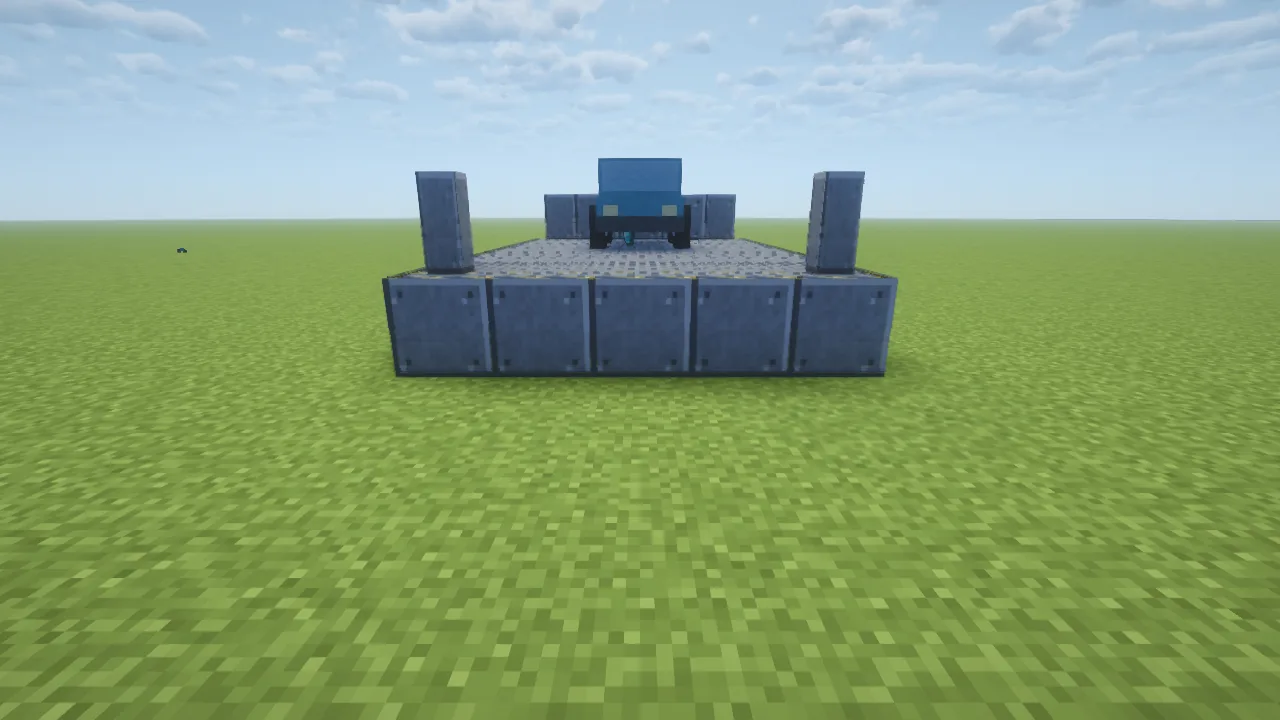
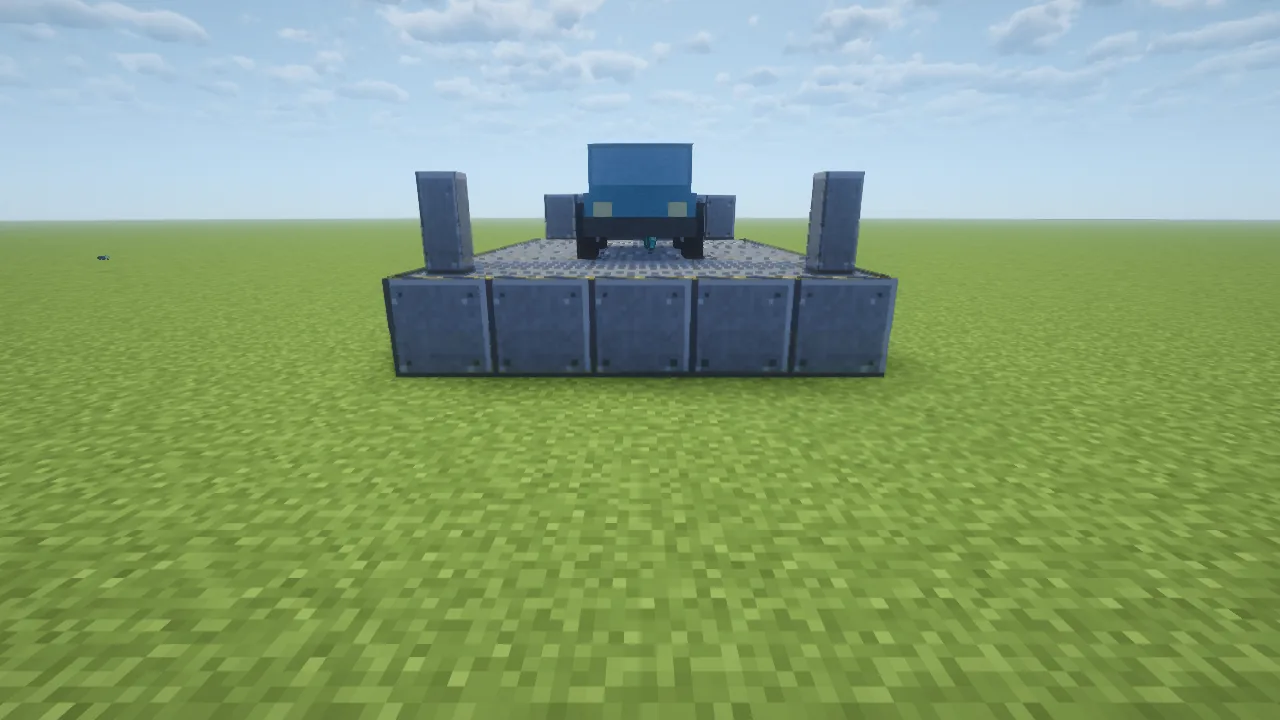
1.18.1: a parked vehicle sits centred between the deck's front edge and the wall, the same margin at both ends (D-0043)
Rusty, on the re-laid garage: "the trailblazer does not center properly based on the new size of
the lift (it is too far back)". 1.18.0 kept D-0040's rule, every vehicle backed up to the wall with
its tail a quarter block off it, which the six-long deck had forced for the Pickup; on the eight-long
deck it left a Trailblazer two blocks behind the middle. Docking.depth is now the middle of the
stretch from the front edge to the wall's face for any body that leaves the gap at both ends
(Docking.centres: the whole fleet on a long lift), else backed up as before; the two rules agree at
the boundary. A vehicle docked under 1.18.0 moves to its centred spot as it loads: snapped within a
block, else let go and taken again through the rams. Network 10 unchanged.

Gate: 194 JUnit (DockingTest: equal margins on each shape, the boundary under both rules), 143
GameTests (the car spun on the east lift ends with the same margin at nose and tail; the towing pair
re-stood across the middle where both spots lie; the short lift's spot a block nearer than the long
one's), the booth's 67 checks; the wiki's two lift photos re-shot from it.

Changed region(s): [[0.3125, 0.1833, 0.6562, 0.3972]]

diff --git a/src/test/java/com/chunkworks/vanillawheels/domain/DockingTest.java b/src/test/java/com/chunkworks/vanillawheels/domain/DockingTest.java
@@ -29,10 +29,12 @@ import org.junit.jupiter.api.Test;
  * hair wider; as long as the longest, a hair longer; the fleet (the
  * Trailblazer, the Pickup, the Trailer, the subs dock on both; the Huey
  * and the Chinook on neither); what the long deck takes that the short
- * one does not. Depth: a body's tail lands GAP off the wall on each shape;
- * the longest body's nose lands OVERHANG past the front; the Pickup's nose
- * is past the short deck's front edge and on the long deck; no length
- * refused. Progress: nowhere
+ * one does not. Depth (D-0043): a body that leaves GAP at both ends sits
+ * centred between the front edge and the wall's face, the same margin each
+ * end, on each shape; one that does not backs up to the wall, its tail GAP
+ * off the face; the two rules agree at the boundary; the longest body's
+ * nose lands OVERHANG past the front; the Pickup centres on the long deck
+ * and backs up on the short, its nose over the edge; no length refused. Progress: nowhere
  * through the rise, rising through the hold and monotone, there through
  * the fall, out of range refused. Turn: none, a quarter each way, a half
  * either way goes positive, more than a turn around, wrapping past 360.
@@ -67,21 +69,33 @@ final class DockingTest {
     }
 
     @Test
-    void aDockedBodyBacksUpToTheWallOnEachDeck() {
-        double length = 4.64;
+    void aDockedBodySitsCentredWithTheSameMarginAtBothEndsOrBacksUpToTheWall() {
         for (Footprint f : java.util.List.of(Footprint.SHORT, Footprint.LONG)) {
-            double depth = Docking.depth(f, length);
-            assertEquals(f.wallFace() - Docking.GAP, depth + length / 2.0, 1e-12, "its tail GAP off the wall's face");
+            double face = f.wallFace();
+            for (double length : new double[] {3.0, 4.64}) {
+                assertTrue(Docking.centres(f, length), length + " centres on " + f.length());
+                double depth = Docking.depth(f, length);
+                double front = depth - length / 2.0, back = face - (depth + length / 2.0);
+                assertEquals(front, back, 1e-12, "the same margin at the nose and the tail");
+                assertTrue(back >= Docking.GAP, "and at least the gap");
+                assertEquals(face / 2.0, depth, 1e-12, "the middle of the stretch from the front edge to the wall's face");
+            }
+            double edge = face - 2.0 * Docking.GAP;
+            assertTrue(Docking.centres(f, edge), "a body that leaves exactly the gap at both ends centres");
+            assertFalse(Docking.centres(f, edge + 1e-9), "a hair longer backs up");
+            assertEquals(Docking.depth(f, edge), face - Docking.GAP - edge / 2.0, 1e-12, "and the two rules agree there");
             double longest = Docking.longest(f);
-            double nose = Docking.depth(f, longest) - longest / 2.0;
-            assertEquals(-Docking.OVERHANG, nose, 1e-12, "the longest body's nose hangs OVERHANG past the front edge");
+            assertEquals(face - Docking.GAP, Docking.depth(f, longest) + longest / 2.0, 1e-12, "backed up: the tail GAP off the wall's face");
+            assertEquals(-Docking.OVERHANG, Docking.depth(f, longest) - longest / 2.0, 1e-12, "the longest body's nose hangs OVERHANG past the front edge");
             assertThrows(IllegalArgumentException.class, () -> Docking.depth(f, 0.0));
             assertThrows(IllegalArgumentException.class, () -> Docking.depth(f, -1.0));
         }
-        assertEquals(2.7425, Docking.depth(Footprint.SHORT, length), 1e-12, "a Trailblazer sits a quarter block behind the short deck's centre");
-        assertEquals(4.7425, Docking.depth(Footprint.LONG, length), 1e-12, "and two blocks deeper on the long one: the wall is where it is measured from");
-        assertTrue(Docking.depth(Footprint.SHORT, 6.44) - 3.22 < 0, "a Pickup's nose is past the short deck's front edge");
-        assertEquals(0.6225, Docking.depth(Footprint.LONG, 6.44) - 3.22, 1e-12, "and more than half a block inside the long deck's (D-0042)");
+        assertEquals(2.65625, Docking.depth(Footprint.SHORT, 4.64), 1e-12, "a Trailblazer: the short deck's middle, a third of a block off the wall");
+        assertEquals(3.65625, Docking.depth(Footprint.LONG, 4.64), 1e-12, "and a block deeper on the long one, 1.34 off each end");
+        assertFalse(Docking.centres(Footprint.SHORT, 6.44), "the Pickup backs up on the short deck");
+        assertTrue(Docking.depth(Footprint.SHORT, 6.44) - 3.22 < 0, "its nose past the front edge");
+        assertTrue(Docking.centres(Footprint.LONG, 6.44), "and centres on the long one");
+        assertEquals(0.43625, Docking.depth(Footprint.LONG, 6.44) - 3.22, 1e-12, "0.44 inside the front edge, and the same off the wall (D-0042, D-0043)");
     }
 
     @Test

diff --git a/src/gametest/java/com/chunkworks/vanillawheels/gametest/LiftGameTests.java b/src/gametest/java/com/chunkworks/vanillawheels/gametest/LiftGameTests.java
@@ -555,9 +555,14 @@ public final class LiftGameTests {
             helper.assertTrue(car.docked(), "taken");
             helper.assertTrue(car.position().distanceTo(spot) < 0.01, "on its spot: " + car.position() + " vs " + spot);
             helper.assertValueEqual(car.getYRot(), Footprint.Heading.EAST.yaw(), "spun half a turn to face the front");
-            // Backed up to the wall: the tail GAP off the wall's face, which is BAR_MIN into the deck's last cell to the west.
-            double wall = helper.absolutePos(EAST_CONTROLLER).getX() + 1 - lift.footprint().wallFace();
-            helper.assertValueEqual(Math.round((car.getX() - bodyLength(helper, BOX_CAR) / 2 - wall) * 1000) / 1000.0, Docking.GAP, "its tail a gap off the wall");
+            // Centred (D-0043): the nose as far from the front edge (the controller's east face) as the tail from the
+            // wall's face, which is BAR_MIN into the deck's last cell to the west.
+            double front = helper.absolutePos(EAST_CONTROLLER).getX() + 1;
+            double wall = front - lift.footprint().wallFace();
+            double half = bodyLength(helper, BOX_CAR) / 2;
+            double noseMargin = front - (car.getX() + half), tailMargin = (car.getX() - half) - wall;
+            helper.assertValueEqual(Math.round(noseMargin * 1000) / 1000.0, Math.round(tailMargin * 1000) / 1000.0, "the same margin at the nose and the tail");
+            helper.assertTrue(tailMargin >= Docking.GAP, "at least the gap off the wall: " + tailMargin);
             helper.succeed();
         });
     }
@@ -654,10 +659,11 @@ public final class LiftGameTests {
         ServerPlayer sp = player(helper, GameType.SURVIVAL);
         helper.assertTrue(place(helper, sp, CONTROLLER, Direction.NORTH).consumesAction(), "placed");
         LiftBlockEntity lift = lift(helper, CONTROLLER);
-        // The car facing the front with the trailer hitched close behind it, both on the deck and both in the back
-        // stretch where the two spots lie (z 6.56..10.06): each stands where the other's spot is, so neither is clear.
-        Vehicle car = stand(helper, BOX_CAR, new Vec3(7.5, DECK, 6.0), 180.0f);
-        Vehicle trailer = stand(helper, BOX_TRAILER, new Vec3(7.5, DECK, 9.3), 180.0f);
+        // The car facing the front with the trailer hitched close behind it, both on the deck and both across the
+        // middle where the two spots lie (the car's z 5.16..8.16, the trailer's 4.91..8.41): each stands where the
+        // other's spot is, so neither is clear.
+        Vehicle car = stand(helper, BOX_CAR, new Vec3(7.5, DECK, 5.0), 180.0f);
+        Vehicle trailer = stand(helper, BOX_TRAILER, new Vec3(7.5, DECK, 8.3), 180.0f);
         car.hitch(trailer);
         helper.assertValueEqual(lift.dockStatus(), LiftStatus.Dock.TOWING, "unhitch first");
         helper.runAtTickTime(Docking.REST + 5, () -> {
@@ -716,7 +722,7 @@ public final class LiftGameTests {
     }
 
     @GameTest(template = "arena", timeoutTicks = 120)
-    public void aShortLiftDocksAgainstItsOwnWallTwoRowsNearerThanALongOne(GameTestHelper helper) {
+    public void aShortLiftCentresByItsOwnWallABlockNearerThanALongOne(GameTestHelper helper) {
         layFloor(helper);
         // A six-long lift whole, as the box's garage lifts are: laid by commands, every part flagged short.
         Footprint old = Footprint.SHORT;
@@ -731,8 +737,8 @@ public final class LiftGameTests {
         Vehicle car = stand(helper, BOX_CAR, new Vec3(7.5, DECK, 5.0), 180.0f);
         Vec3 spot = lift.spot(bodyLength(helper, BOX_CAR));
         double depth = spot.z - helper.absolutePos(CONTROLLER).getZ();
-        helper.assertValueEqual(Math.round(depth * 1e4) / 1e4, Math.round(Docking.depth(old, bodyLength(helper, BOX_CAR)) * 1e4) / 1e4, "the spot by the short deck's wall");
-        helper.assertValueEqual(Math.round((Docking.depth(Footprint.LONG, bodyLength(helper, BOX_CAR)) - depth) * 1e4) / 1e4, 2.0, "two rows nearer than on a long one");
+        helper.assertValueEqual(Math.round(depth * 1e4) / 1e4, Math.round(Docking.depth(old, bodyLength(helper, BOX_CAR)) * 1e4) / 1e4, "the spot in the short deck's middle");
+        helper.assertValueEqual(Math.round((Docking.depth(Footprint.LONG, bodyLength(helper, BOX_CAR)) - depth) * 1e4) / 1e4, 1.0, "a block nearer than on a long one: half the two rows");
         helper.assertTrue(bodyLength(helper, BOX_LONG) > Docking.longest(old), "the long box fits neither");
         helper.runAtTickTime(Docking.REST + 2 + LiftMotion.JOB + 2, () -> {
             helper.assertTrue(car.docked(), "taken");

diff --git a/src/domain/java/com/chunkworks/vanillawheels/domain/Docking.java b/src/domain/java/com/chunkworks/vanillawheels/domain/Docking.java
@@ -51,15 +51,26 @@ public final class Docking {
     }
 
     /**
+     * effects: returns whether a body {@code length} long sits centred on a lift shaped {@code f}:
+     * between the front edge and the wall's face with the same margin at both ends, that margin
+     * at least GAP (D-0043)
+     */
+    public static boolean centres(Footprint f, double length) {
+        return length <= f.wallFace() - 2.0 * GAP;
+    }
+
+    /**
      * requires: length > 0
      * effects: returns the depth from the deck's front edge of a docked body's centre on a lift
-     * shaped {@code f}, for a body {@code length} long: its tail GAP off the wall's face
+     * shaped {@code f}, for a body {@code length} long: the middle of the stretch from the front
+     * edge to the wall's face when the body {@link #centres}, else as deep as the wall allows, its
+     * tail GAP off the wall's face and its nose over the front edge (D-0043)
      */
     public static double depth(Footprint f, double length) {
         if (!(length > 0)) {
             throw new IllegalArgumentException("a body has length: " + length);
         }
-        return f.wallFace() - GAP - length / 2.0;
+        return centres(f, length) ? f.wallFace() / 2.0 : f.wallFace() - GAP - length / 2.0;
     }
 
     /**

diff --git a/README.md b/README.md
@@ -40,7 +40,11 @@ parks whole on the deck (Rusty: it "doesnt really fit", "make it a little bigger
 shape it was laid with: its blocks carry a `long` flag, every lift placed from now on has it, and a
 lift from before reads as the six-long shape it was and goes on working as it did; break it and place
 it again for the long one. Network 10, since the lift's blocks have a new state (see
-[The Mechanic Lift](#the-mechanic-lift)).
+[The Mechanic Lift](#the-mechanic-lift)). **1.18.1** (D-0043): a parked vehicle sits **centred**
+between the deck's front edge and the wall, the same margin at both ends; 1.18.0 still backed every
+vehicle up to the wall, the rule from when the Pickup was longer than the deck, which on the long deck
+left a Trailblazer two blocks behind the middle (Rusty: "too far back"). A body too long to leave a
+quarter block at both ends still backs up to the wall with its nose over the front edge.
 
 A vehicle protocol for NeoForge 1.21.1. A vehicle is a datapack entry, a mesh and a
 texture; this mod owns every line of Java. It drives, climbs, carries riders and cargo,
@@ -693,9 +697,13 @@ of a standing lift removes that lift whole.
 A vehicle **left standing on a lift's deck is taken by it** (D-0040, `domain/Docking`): with
 nobody at the wheel, neither towing nor towed, still on the ground for half a second, and
 its centre over the deck, the lift runs its job and through the hold the vehicle glides to
-its **spot** -- centred across the deck, backed up to the wall with its tail a quarter block
-off the wall's face, nose to the front -- turning the short way to face the front (a vehicle
-that came in backwards is spun half a turn). From then on it is **docked**: held on its
+its **spot** -- centred across the deck and, since 1.18.1 (D-0043), centred along it too:
+the middle of the stretch from the front edge to the wall's face, so the nose is as far from
+the edge as the tail is from the wall (`Docking.centres`: any body that leaves a quarter block
+at both ends; the whole fleet on a long lift). A body too long for that backs up to the wall,
+its tail a quarter block off the wall's face and its nose over the front edge (the Pickup on a
+six-long lift). It turns the short way to face the front (a vehicle that came in backwards is
+spun half a turn). From then on it is **docked**: held on its
 spot, its steering dead, until a throttle lets it go -- the driver's (W or S; their client
 lets go at once and the server follows when their drive state arrives) or a script's. A
 released vehicle that stops on the deck again is simply taken again. Build stands a new
@@ -714,7 +722,9 @@ truck, say); and a **driver** at the wheel, who need only step out. A protocol b
 one may refuse docking for its vehicles through the `docks()` hook (below).
 
 A docked vehicle stays docked across a save (`Docked`, its lift's controller position) and
-is set on its spot again as it loads. It is let go when its lift is gone, or when it is found
+is set on its spot again as it loads: a vehicle parked under 1.18.0 moves to the centred spot
+by itself, snapped there if it is within a block, else let go and taken again, which runs the
+rams once. It is let go when its lift is gone, or when it is found
 more than a block from its spot: a key's recall, a command, anything that moved it away.
 Hitching a docked trailer to a truck lets it go too. A vehicle that was already standing on a
 lift when 1.17.0 arrives is taken the first time it is seen standing still: every car in a

diff --git a/knowledge/decisions/D-0043.md b/knowledge/decisions/D-0043.md
@@ -1,0 +1,34 @@
+---
+title: A parked vehicle sits centred between the deck's front edge and the wall, the same margin at both ends; only a body too long for that backs up to the wall
+status: Active
+date: 2026-10-15
+supersedes: D-0040's "Spot, not centre"
+---
+
+# D-0043 — The spot is the middle of the deck
+
+Rusty, 2026-10-15, the first look at the re-laid garage under pack 1.88.0: "the trailblazer does not
+center properly based on the new size of the lift (it is too far back)". D-0040 backed every vehicle up
+to the wall, tail a quarter block off its face, because the Pickup was longer than the six-long deck and
+centred would have stood inside the wall; D-0042 made the deck eight long and left that rule, so a
+Trailblazer (4.64) sat with its nose 2.4 blocks from the front edge and its tail 0.25 from the wall.
+Rusty's ask on D-0040 was "center the vehicle on the lift perfectly".
+
+**Decision**: the spot's depth is the middle of the stretch from the deck's front edge to the wall's
+face (`Footprint.wallFace() / 2`: 3.66 on a long lift, 2.66 on a short one) for any body that leaves at
+least `GAP` (a quarter block) at both ends there (`Docking.centres`: length at most `wallFace - 2 GAP`,
+6.81 long, 4.81 short): the nose is as far from the edge as the tail from the wall. A longer body backs
+up to the wall as before, tail `GAP` off the face, nose over the front edge, up to `OVERHANG` past it.
+The two rules agree at the boundary, so no body jumps between them. On the long lift the whole fleet
+centres, the Pickup with 0.44 at each end; on a short lift the Pickup still backs up. A vehicle docked
+under 1.18.0 is set on the new spot as it loads: snapped there if within `HOLD` (the Pickup, 0.19),
+else let go and taken again through the rams (the Trailblazer, 1.09).
+
+**Why the wall's face and not the deck's back edge**: the back row behind the bar is not parking
+surface; what the eye reads as the deck is the plate from the stripe to the bar.
+
+**Verification**: `DockingTest` (equal margins at least the gap for two bodies on each shape, the
+boundary body under both rules, the backed-up branch by the longest body, the Trailblazer's and the
+Pickup's numbers on each shape), `LiftGameTests` (the car spun on the east lift ends with the same
+margin at nose and tail; the short lift's spot a block nearer than the long one's; the towing pair
+re-stood across the middle where both spots lie now). The booth photographs the centred car.

diff --git a/wiki/page.md b/wiki/page.md
@@ -175,17 +175,18 @@ Steel comes from [Metals and Materials](/wiki/metals-and-materials).
 ### Parking on a lift
 
 A lift **parks** whatever you leave on it. Drive onto the deck, get out, and half a second
-later the rams run: the deck comes up, the vehicle slides to the middle and backs up to the
-wall, turning to face the front if it wasn't, and the deck sets it down. It stays put, square
-and centred, until someone in the driver's seat presses the throttle, which lets it go. A
+later the rams run: the deck comes up, the vehicle slides to the middle of the deck, as far
+from the front edge as from the wall, turning to face the front if it wasn't, and the deck
+sets it down. It stays put, square and centred, until someone in the driver's seat presses
+the throttle, which lets it go. A
 garage of lifts is a row of vehicles parked alike, and a parked vehicle is in the right place
 for Paint and Repair.
 
 ![A car parked on a lift, backed up to its wall](img/lift-docked.webp)
 
 - Anything that fits parks: cars, pickups and trailers. The Farmer's Pickup sits whole on an
-  eight-long deck; on an older six-long lift its nose hangs a little over the front edge.
-  Helicopters are too long and are left alone.
+  eight-long deck; on an older six-long lift it backs up to the wall with its nose a little
+  over the front edge. Helicopters are too long and are left alone.
 - A truck with a trailer hitched isn't taken; unhitch the trailer first, and move it off if it
   stands where the truck would go. The menu's status line says what the lift is waiting for.
 - One vehicle to a lift. A second one left on the deck stays where it is.

diff --git a/knowledge/decisions/README.md b/knowledge/decisions/README.md
@@ -82,3 +82,5 @@ tags: [index]
 - [D-0041](D-0041.md): Every key lives on a keyring made by itself with the first key, one a player, never crafted; the ring cannot be dropped, refuses every container, and comes back after a death; using it opens a screen with a row a vehicle (paint, name, where it is and how far, the share of a tank a recall costs) and Recall, the exact quote, Confirm and Cancel. Loose keys from before join the ring at login. Network 9. Supersedes D-0026's loose key and its "no keyring".
 
 - [D-0042](D-0042.md): The Mechanic Lift is eight long (five wide as before), so the Farmer's Pickup parks whole on the deck, its nose 0.62 inside the front edge; a lift keeps the shape it was laid with (`Footprint.SHORT` or `LONG`, a `long` state on the controller and every part; a block saved before reads short, its cells in the order they always were) and is never regrown long: break it and place it again. Network 10, since the lift's blocks have a new state.
+
+- [D-0043](D-0043.md): A parked vehicle sits centred between the deck's front edge and the wall's face, the same margin at both ends (any body that leaves a quarter block at each end; the whole fleet on a long lift); a body too long for that backs up to the wall with its nose over the front edge, as every vehicle did under D-0040. Rusty, on the re-laid garage: the Trailblazer "is too far back".

diff --git a/knowledge/PROJECT.md b/knowledge/PROJECT.md
@@ -7,6 +7,16 @@ tags: [overview]
 
 # Vanilla Wheels
 
+## 1.18.1 — built and gated 2026-10-15, UNRELEASED until Rusty's go (the spot centred; D-0043)
+
+Rusty, 2026-10-15, on the re-laid garage: "the trailblazer does not center properly based on the new size of
+the lift (it is too far back)". 1.18.0 kept D-0040's "back up to the wall", which on the long deck put a
+Trailblazer two blocks behind the middle. `Docking.depth` is now the middle of the stretch from the front edge
+to the wall's face for any body that leaves `GAP` at both ends (`Docking.centres`), else backed up as before;
+the rules agree at the boundary. A vehicle docked under 1.18.0 moves to the new spot as it loads (snapped
+within `HOLD`, else let go and taken again). Network 10 unchanged. Gate: 194 JUnit, 143 GameTests (the east
+lift's spin test asserts equal margins; the towing pair re-stood across the middle), the booth.
+
 ## 1.18.0 — released 2026-10-15 in pack 1.88.0 (the eight-long lift; D-0042)
 
 Released on Rusty's "go", tag `v1.18.0` at `dd8e5a6`; the release gate (`clean build --no-build-cache`, the booth

diff --git a/knowledge/decisions/D-0040.md b/knowledge/decisions/D-0040.md
@@ -43,6 +43,8 @@ backs to the hall's walls.
   Pickup (longer than the deck) centred would stand inside it, so every vehicle backs up to the wall
   instead, which is how a garage parks and what the wall is for. A Trailblazer ends a quarter block
   behind the deck's centre; a Pickup's nose hangs about a block and a third over the front edge.
+  **Superseded by D-0043** (2026-10-15): with the eight-long deck (D-0042) a body that leaves a quarter
+  block at both ends sits centred; only a longer one backs up to the wall.
 - **The menu's status line** names what keeps the lift from taking the vehicle on its deck
   (`LiftStatus.Dock`, hard refusals first): towing, too big, taken, blocked, a driver aboard.
 - A protocol built on this one may refuse docking for its vehicles: `Vehicle.docks()`. Rotorcraft

diff --git a/knowledge/decisions/D-0042.md b/knowledge/decisions/D-0042.md
@@ -17,6 +17,7 @@ wall and its nose a block and a third past the front edge.
 - **Eight long.** The deck grows from six cells to eight, five wide as before, the posts on the new
   corners and the wall across the new back row. The spot is still measured from the wall (`GAP`), so a
   body up to 7.06 blocks sits whole on the deck and the Pickup's nose ends 0.62 inside the front edge.
+  (Kept for a day: D-0043 centres the spot, the Pickup 0.44 from each end.)
   Seven would not do: 6.06 from the wall's gap to the edge, shorter than the Pickup. `OVERHANG` stays
   a block and a half, so a long lift takes a body up to 8.56; nothing in the fleet is between.
 - **A lift keeps the shape it was laid with.** `Footprint` is a value now, `SHORT` (six) or `LONG`
